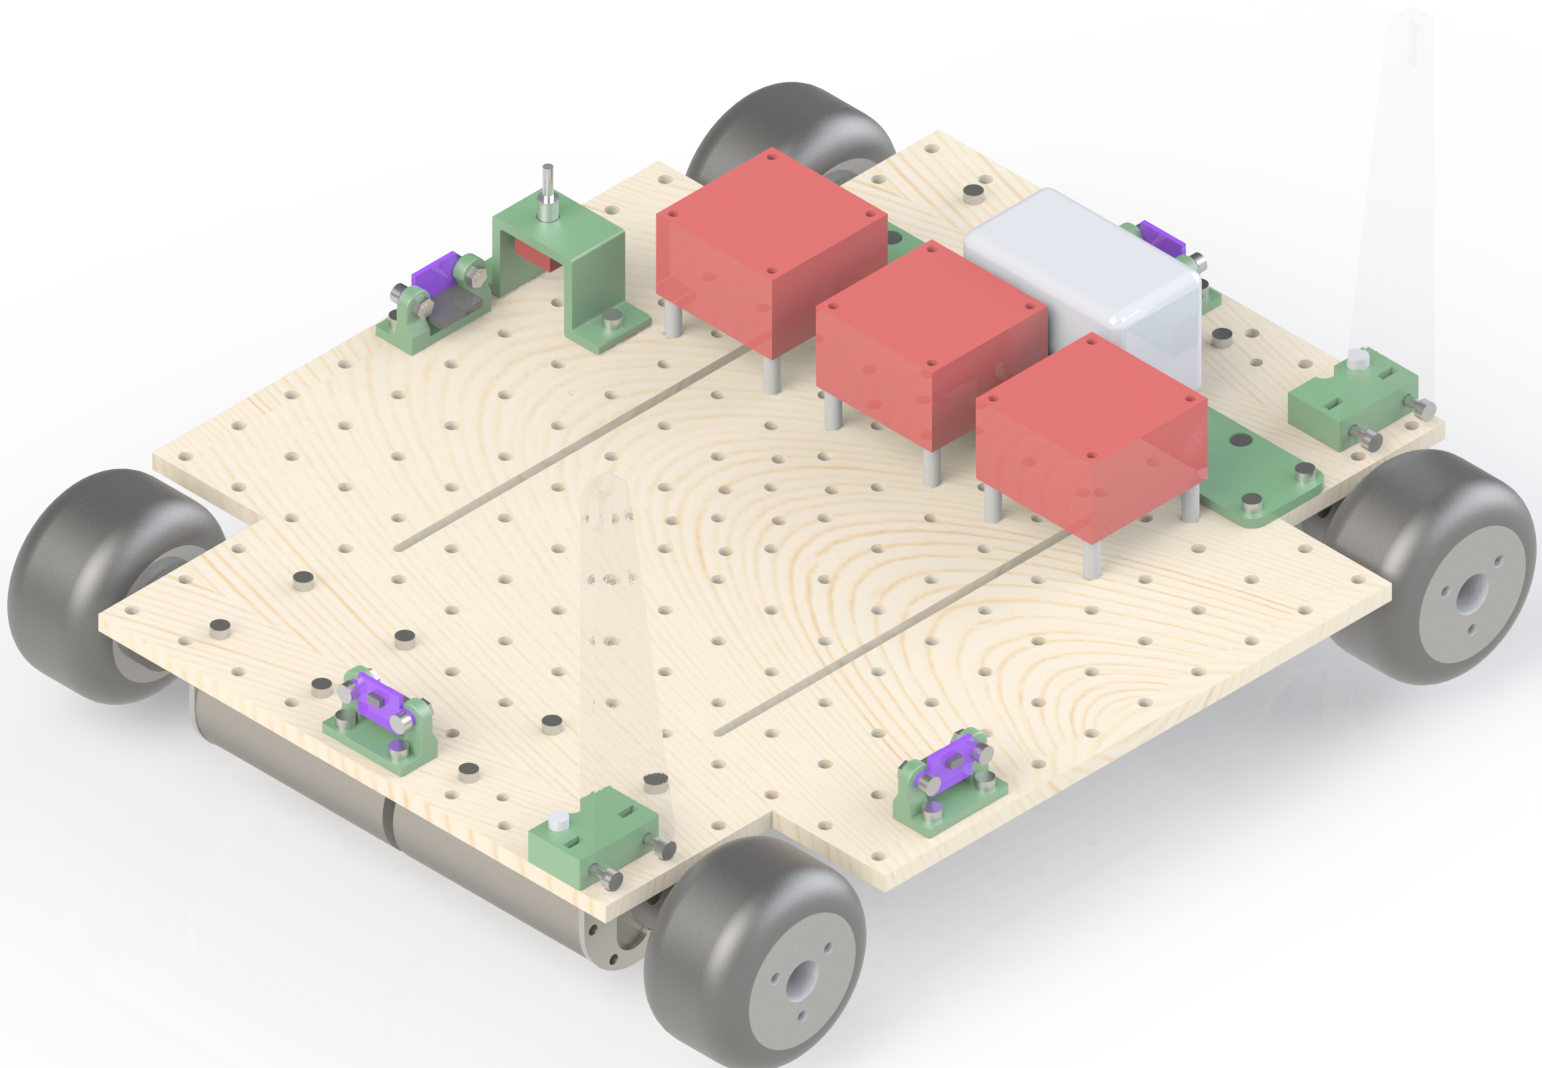
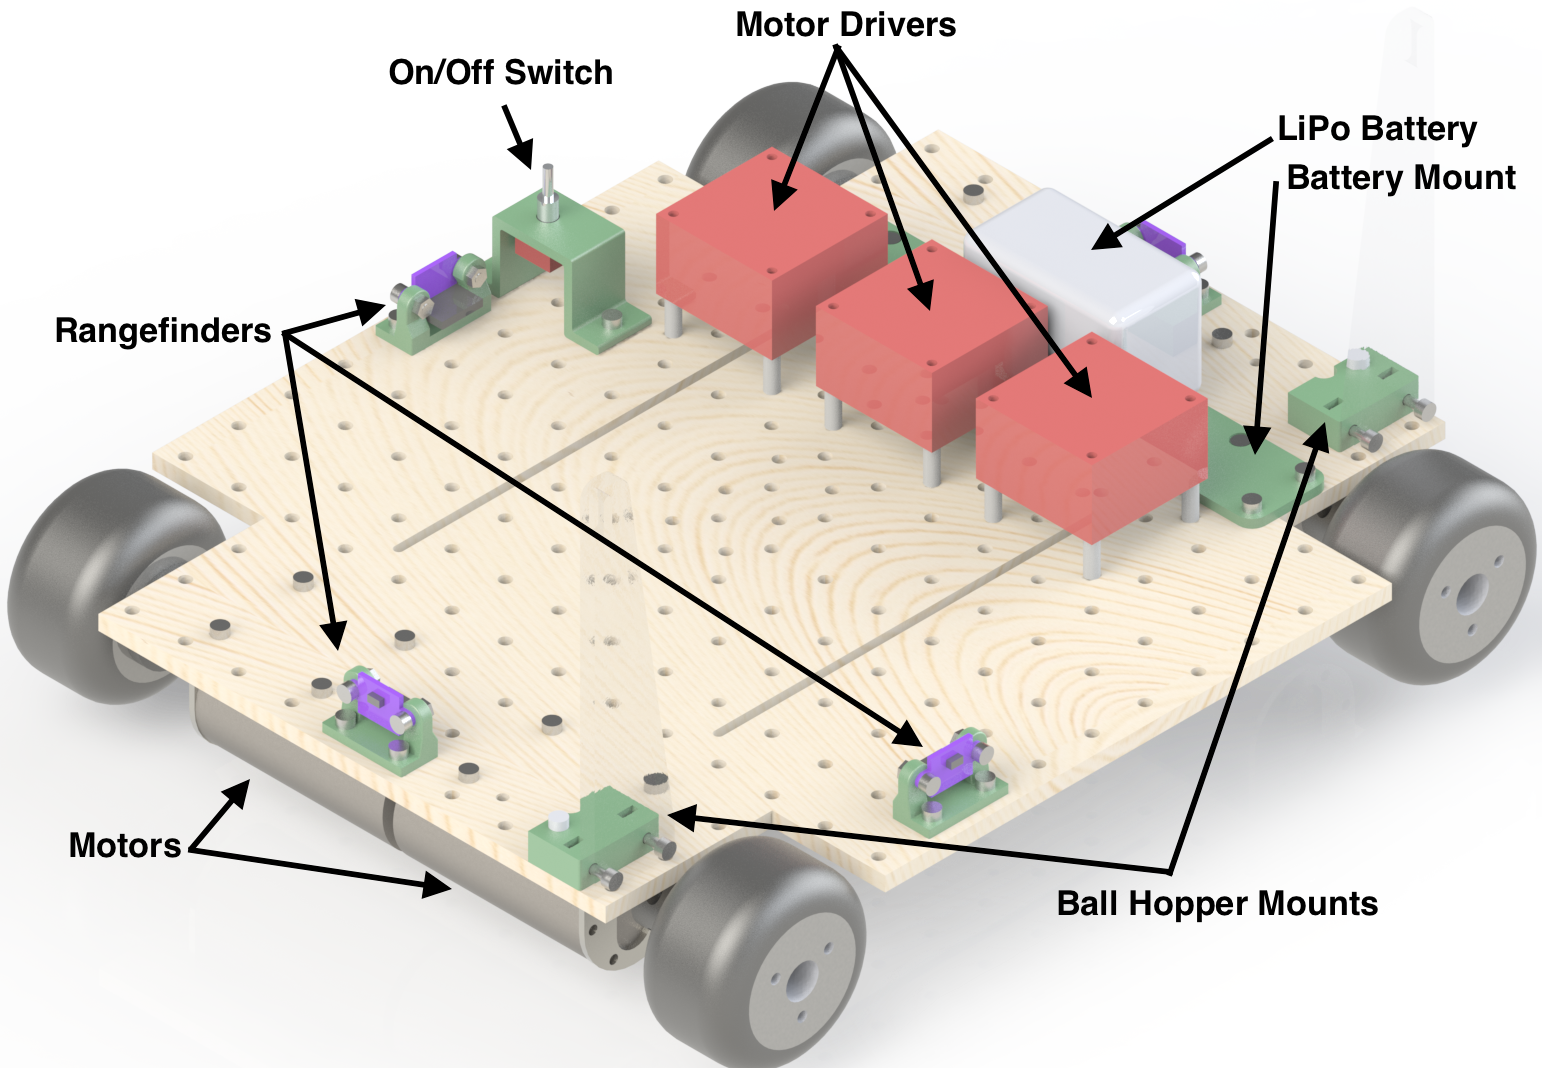
Labeled some pics and added more info to mech

diff --git a/report/chapters/mechanical.tex b/report/chapters/mechanical.tex
@@ -1,6 +1,6 @@
 \chapter{Mechanical Design}
 \section{Introduction}
-The robot meets the design specification shown in Table \ref{tab:roborodentia_reqs}. It consists of four subassemblies: the base platform, shooting mechanism, ball hopper, and control unit. Each section was first modeled in SolidWorks, an industry-standard solid modeling CAD program. The designed parts were then fabricated using a laser cutter or 3D printer and assembled with metric hardware. Figure \ref{fig:robot_photo} displays a photograph of the robot while figures \ref{fig:render_isometric} through \ref{fig:render_right} show standard view renders of the SolidWorks model. Note that the robot uses mecanum wheels (a type of omni-directional wheel) which are modeled here as regular wheels for simplicity.
+The robot meets the design specification shown in Table \ref{tab:roborodentia_reqs}. It consists of four subassemblies: the base platform, shooting mechanism, ball hopper, and control unit. Each section was first modeled in SolidWorks, an industry-standard solid modeling CAD program. The designed parts were then fabricated using a laser cutter or 3D printer and assembled with metric hardware. Figure \ref{fig:robot_photo} displays a photograph of the robot while figures \ref{fig:render_isometric} through \ref{fig:render_right} show standard view renders of the SolidWorks model. Note that the robot uses mecanum wheels (a type of omni-directional wheel) which are modeled here as regular wheels for simplicity. Figure \ref{fig:render_top} also indicates the front, left, back/rear, and right sides of the robot as referenced in the rest of the paper.
 
 \begin{table}[h]
 	\centering	\caption{Roborodentia 2018 Mechanical Requirements}
@@ -43,15 +43,17 @@ The robot meets the design specification shown in Table \ref{tab:roborodentia_re
 	\caption{Full Robot Render -- Right View}	\label{fig:render_right}
 \end{figure}
 
+The design emphasizes the use of 3D printed parts to take advantage of the benefits of the technology including rapid part production, high part complexity, low fabrication cost (excluding the cost of the printer, relative to other methods such as machining, casting, and injection molding), and Parts were printed on a MakerGear M2 3D printer equipped with a 0.35 mm diameter nozzle using MakerGeeks 1.75 mm ABS thermoplastic filament. Print speeds of 20 to 80 mm/s with 0.20 mm layer height, depending on part dimensions and minimum feature size, lead to part print times of 2-5 hours for smaller components up to 14 hours for the ball hopper. Due to the non-isotropic strength characteristic of 3D printed components (greater tensile strength in the X and Y axes but significantly weaker in Z), the designs must specifically take into account printing direction and orientation. Additionally, the print volume of 200 mm x 250 mm x 200 mm limits the maximum part dimensions thus requiring the ball hopper to printed as three separate pieces. 
+
 \section{Base Platform}
-The base platform of the robot, made from 1/4" medium density fiberboard (MDF), serves as the primary structural component and a mounting point for the motors, electronics, shooting mechanism, and hopper. The wood is laser cut with a 20 mm grid of 4.5 mm diameter holes to allow modular placement of components and the corner cutouts allow clearance for the wheels. Figures \ref{fig:base_platform} shows the assembled view of the subassembly.
+The 315 mm by 275 mm base platform of the robot, made from 1/4" medium density fiberboard (MDF), serves as the primary structural component and a mounting point for the motors, electronics, shooting mechanism, and hopper. The wood is laser cut with a 20 mm grid of 4 mm diameter holes to allow modular placement of components and the corner cutouts allow clearance for the wheels. Figures \ref{fig:base_platform} shows the assembled view of the subassembly. Parts are mounted using M3 nuts and hex bolts.
 
 \begin{figure}[H]   % [h] means here
 	\centering \includegraphics[width=6in, height=3.85in, keepaspectratio]{figures/base_platform.png}
 	\caption{Base Platform}	\label{fig:base_platform}
 \end{figure}
 
-Four 12V Pololu 37D motors geared at a 70:1 ratio drive each of the 60 mm mecanum wheels. 3D printed couplings shown in Figure \ref{fig:wheel_coupler} connect the wheels to the D-shaped motor shafts. Each wheel contains eight angled rollers so unlike regular wheels which only produce a force vector perpendicular to the axis, mecanum wheels also produce a vector parallel to the axis. With the appropriate combination of speed and direction of each wheel, the robot can achieve simultaneous translation and rotation in any direction. 
+Four 12V Pololu 37D motors geared at a 70:1 ratio drive each of the 60 mm mecanum wheels. 3D printed couplings, shown in Figure \ref{fig:wheel_coupler}, connect the wheels to the 6 mm diameter, D-shaped motor shafts. Each wheel contains eight angled rollers so unlike regular wheels which only produce a force vector perpendicular to the axis, mecanum wheels also produce a vector parallel to the axis. With the appropriate combination of speed and direction of each wheel, the robot can achieve simultaneous translation and rotation in any direction. 
 
 \begin{figure}[H]   % [h] means here
 	\centering \includegraphics[width=6in, height=3.85in, keepaspectratio]{figures/wheel_coupler.png}
